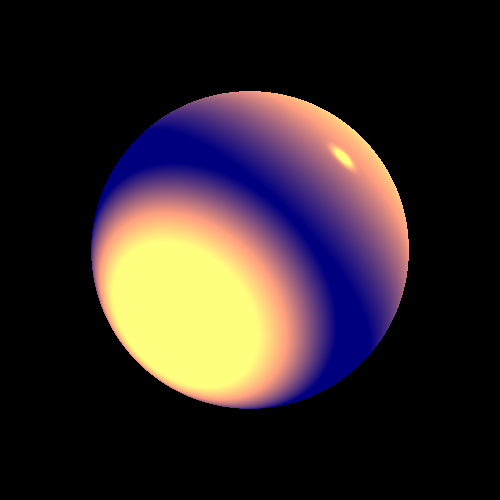
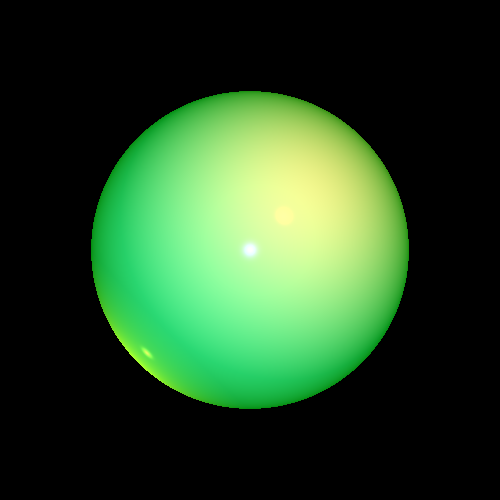
stage7 ShadowTests

diff --git a/unitTasts/renderer/ShadowTests.java b/unitTasts/renderer/ShadowTests.java
@@ -1,0 +1,112 @@
+package renderer;
+
+import static java.awt.Color.*;
+
+import org.junit.jupiter.api.Test;
+
+import geometries.*;
+import lighting.AmbientLight;
+import lighting.SpotLight;
+import primitives.*;
+import scene.Scene;
+
+/** Testing basic shadows
+ * @author Dan */
+public class ShadowTests {
+   /** Scene of the tests */
+   private final Scene scene = new Scene("Test scene");
+   /** Camera builder of the tests */
+   private final Camera.Builder camera     = Camera.getBuilder()
+      .setDirection(new Vector(0, 0, -1), new Vector(0, 1, 0))
+      .setLocation(new Point(0, 0, 1000)).setVpDistance(1000)
+      .setVpSize(200, 200)
+      .setRayTracer(new SimpleRayTracer(scene));
+
+   /** The sphere in the tests */
+   private final Intersectable  sphere     = new Sphere(new Point(0, 0, -200), 60d)
+      .setEmission(new Color(BLUE))
+      .setMaterial(new Material().setKd(0.5).setKs(0.5).setShininess(30));
+   /** The material of the triangles in the tests */
+   private final Material       trMaterial = new Material().setKd(0.5).setKs(0.5).setShininess(30);
+
+   /** Helper function for the tests in this module
+    * @param pictName     the name of the picture generated by a test
+    * @param triangle     the triangle in the test
+    * @param spotLocation the spotlight location in the test */
+   private void sphereTriangleHelper(String pictName, Triangle triangle, Point spotLocation) {
+      scene.geometries.add(sphere, triangle.setEmission(new Color(BLUE)).setMaterial(trMaterial));
+      scene.lights.add( //
+                       new SpotLight(new Color(400, 240, 0), spotLocation, new Vector(1, 1, -3)) //
+                          .setKl(1E-5).setKq(1.5E-7));
+      camera.setImageWriter(new ImageWriter(pictName, 400, 400))
+         .build()
+         .renderImage() //
+         .writeToImage();
+   }
+
+   /** Produce a picture of a sphere and triangle with point light and shade */
+   @Test
+   public void sphereTriangleInitial() {
+      sphereTriangleHelper("shadowSphereTriangleInitial", //
+                           new Triangle(new Point(-70, -40, 0), new Point(-40, -70, 0), new Point(-68, -68, -4)), //
+                           new Point(-100, -100, 200));
+   }
+
+   /** Sphere-Triangle shading - move triangle up-right */
+   @Test
+   public void sphereTriangleMove1() {
+      sphereTriangleHelper("shadowSphereTriangleMove1", //
+                           new Triangle(new Point(-60, -30, 0), new Point(-30, -60, 0), new Point(-58, -58, -4)), //
+                           new Point(-100, -100, 200));
+   }
+
+   /** Sphere-Triangle shading - move triangle upper-righter */
+   @Test
+   public void sphereTriangleMove2() {
+      sphereTriangleHelper("shadowSphereTriangleMove2", //
+                           new Triangle(new Point(-50, -20, 0), new Point(-20, -50, 0), new Point(-48, -48, -4)), //
+                           new Point(-100, -100, 200));
+   }
+
+   /** Sphere-Triangle shading - move spot closer */
+   @Test
+   public void sphereTriangleSpot1() {
+      sphereTriangleHelper("shadowSphereTriangleSpot1", //
+                           new Triangle(new Point(-70, -40, 0), new Point(-40, -70, 0), new Point(-68, -68, -4)), //
+                           new Point(-90, -90, 120));
+   }
+
+   /** Sphere-Triangle shading - move spot even more close */
+   @Test
+   public void sphereTriangleSpot2() {
+      sphereTriangleHelper("shadowSphereTriangleSpot2", //
+                           new Triangle(new Point(-70, -40, 0), new Point(-40, -70, 0), new Point(-68, -68, -4)), //
+                           new Point(-80, -80, 90));
+   }
+
+   /** Produce a picture of a two triangles lighted by a spot light with a Sphere
+    * producing a shading */
+   @Test
+   public void trianglesSphere() {
+      scene.geometries.add(
+                           new Triangle(new Point(-150, -150, -115), new Point(150, -150, -135),
+                                        new Point(75, 75, -150)) //
+                              .setMaterial(new Material().setKs(0.8).setShininess(60)), //
+                           new Triangle(new Point(-150, -150, -115), new Point(-70, 70, -140), new Point(75, 75, -150)) //
+                              .setMaterial(new Material().setKs(0.8).setShininess(60)), //
+                           new Sphere(new Point(0, 0, -11), 30d) //
+                              .setEmission(new Color(BLUE)) //
+                              .setMaterial(new Material().setKd(0.5).setKs(0.5).setShininess(30)) //
+      );
+      scene.setAmbientLight(new AmbientLight(new Color(WHITE), 0.15));
+      scene.lights.add(
+                       new SpotLight(new Color(700, 400, 400), new Point(40, 40, 115), new Vector(-1, -1, -4)) //
+                          .setKl(4E-4).setKq(2E-5));
+
+      camera.setImageWriter(new ImageWriter("shadowTrianglesSphere", 600, 600))
+         .build()
+         .renderImage()
+         .writeToImage();
+   }
+
+}

diff --git a/src/renderer/SimpleRayTracer.java b/src/renderer/SimpleRayTracer.java
@@ -8,12 +8,16 @@ import scene.Scene;
 
 import java.util.List;
 
+import static primitives.Util.alignZero;
+
 /**
  * SimpleRayTracer is a basic implementation of the RayTracerBase class.
  * It performs ray tracing by finding intersections of rays with geometries
  * in the scene and calculates the color of the closest intersection point.
  */
 public class SimpleRayTracer extends RayTracerBase {
+
+    private static final double DELTA = 0.1;
 
     /**
      * Constructs a SimpleRayTracer with the specified scene.
@@ -48,34 +52,44 @@ public class SimpleRayTracer extends RayTracerBase {
      * @return the color at the GeoPoint
      */
     private Color calcColor(GeoPoint geoPoint, Ray ray) {
-        Color color = geoPoint.geometry.getEmission()
-                .add(scene.ambientLight.getIntensity());
-        color = color.add(calcLocalEffects(geoPoint, ray));
-        return color;
+        Color ambientLight = scene.ambientLight.getIntensity();
+        Color emissionLight = geoPoint.geometry.getEmission();
+        Color pointColor = ambientLight.add(emissionLight);
+        return pointColor.add(calcLocalEffects(geoPoint, ray));
     }
 
     /**
      * Calculates the local effects of lighting on a given GeoPoint.
      *
-     * @param geoPoint the GeoPoint
+     * @param gp the GeoPoint
      * @param ray the ray
      * @return the color resulting from local lighting effects
      */
-    private Color calcLocalEffects(GeoPoint geoPoint, Ray ray) {
-        Vector v = ray.getDir().normalize();
-        Vector n = geoPoint.geometry.getNormal(geoPoint.point).normalize();
-        Material material = geoPoint.geometry.getMaterial();
+    private Color calcLocalEffects(GeoPoint gp, Ray ray) {
+        Vector v = ray.getDir();
+        Vector n = gp.geometry.getNormal(gp.point);
+        double nv = alignZero(n.dotProduct(v));
+        if (nv == 0) return Color.BLACK;
+
+        Material material = gp.geometry.getMaterial();
+        int nShininess = material.nShininess;
+        Double3 kd = material.kD;
+        Double3 ks = material.kS;
         Color color = Color.BLACK;
 
-        for (LightSource lightSource : scene.getLights()) {
-            Vector l = lightSource.getL(geoPoint.point).normalize();
-            if (n.dotProduct(l) * n.dotProduct(v) > 0) { // sign of dotProduct is positive when both are above or below surface
-                Color lightIntensity = lightSource.getIntensity(geoPoint.point);
-                color = color.add(calcDiffusive(material.kD, l, n, lightIntensity),
-                        calcSpecular(material.kS, l, n, v, material.nShininess, lightIntensity));
+        for (LightSource lightSource : scene.lights) {
+            Vector l = lightSource.getL(gp.point);
+            double nl = alignZero(n.dotProduct(l));
+            if (nl * nv > 0) { // sign(nl) == sign(nv)
+                if (unshaded(gp, l, n, lightSource)) {
+                    Color lightIntensity = lightSource.getIntensity(gp.point);
+                    color = color.add(
+                            calcDiffusive(kd, l, n, lightIntensity),
+                            calcSpecular(ks, l, n, v, nShininess, lightIntensity)
+                    );
+                }
             }
         }
-
         return color;
     }
 
@@ -108,6 +122,26 @@ public class SimpleRayTracer extends RayTracerBase {
         Vector r = l.subtract(n.scale(2 * l.dotProduct(n))); // reflection direction
         double vr = Math.max(0, -v.dotProduct(r));
         return lightIntensity.scale(kS).scale(Math.pow(vr, shininess));
+    }
+
+    private boolean unshaded(GeoPoint gp, Vector l, Vector n, LightSource light) {
+        Vector lightDirection = l.scale(-1); // from point to light source
+        Vector epsVector = n.scale(n.dotProduct(lightDirection) > 0 ? DELTA : -DELTA);
+        Point point = gp.point.add(epsVector);
+        Ray lightRay = new Ray(point, lightDirection);
+        List<GeoPoint> intersections = scene.geometries.findGeoIntersections(lightRay);
+
+        if (intersections == null) {
+            return true;
+        }
+
+        double lightDistance = light.getDistance(gp.point);
+        for (GeoPoint geoPoint : intersections) {
+            if (alignZero(geoPoint.point.distance(gp.point) - lightDistance) <= 0) {
+                return false;
+            }
+        }
+        return true;
     }
 
 }

diff --git a/unitTasts/lighting/LightsTests.java b/unitTasts/lighting/LightsTests.java
@@ -196,11 +196,14 @@ public class LightsTests {
 
    @Test
    public void multipleLightSourcesSphere() {
-      scene1.geometries.add(sphere);
-      scene1.lights.add(new PointLight(sphereLightColor, sphereLightPosition).setKl(0.0001).setKq(0.00002));
-      scene1.lights.add(new SpotLight(sphereLightColor, sphereLightPosition, sphereLightDirection)
-              .setKl(0.0001).setKq(0.00001));
-      scene1.lights.add(new DirectionalLight(sphereLightColor, sphereLightDirection.scale(-1)));
+      scene1.geometries.add(new Sphere(sphereCenter, SPHERE_RADIUS)
+              .setEmission(new Color(GREEN).reduce(2)).setMaterial(new Material().setKd(KD).setKs(KS).setShininess(SHININESS)));
+
+      scene1.lights.add(new SpotLight(new Color(720, 55, 20), new Point(60, 60, 100), new Vector(-1,-1,-2))
+              .setKl(0.001).setKq(0.00005));
+      scene1.lights.add(new PointLight(new Color(452, 325, 70), new Point(-50, -50, -50))
+              .setKl(0.0005).setKq(0.0005));
+      scene1.lights.add(new DirectionalLight(new Color(121, 250, 324), new Vector(0, 0, -1)));
 
       camera1.setImageWriter(new ImageWriter("multipleLightSourcesSphere", 500, 500))
               .build()

diff --git a/src/lighting/AmbientLight.java b/src/lighting/AmbientLight.java
@@ -21,4 +21,17 @@ public class AmbientLight extends Light {
     public AmbientLight(Color Ia, Double3 Ka) {
         super(Ia.scale(Ka));
     }
+
+    /**
+     * Constructs an ambient light source with the specified intensity and ambient
+     * reflection coefficient.
+     *
+     * @param intensity The color intensity of the ambient light.
+     * @param kA        The ambient reflection coefficient (ambient reflectivity)
+     *                  represented as a scalar value. This coefficient scales the
+     *                  intensity of the ambient light.
+     */
+    public AmbientLight(Color intensity, double kA) {
+        super(intensity.scale(kA));
+    }
 }

diff --git a/src/lighting/LightSource.java b/src/lighting/LightSource.java
@@ -13,12 +13,14 @@ public interface LightSource {
      * @param p the point at which the intensity is to be calculated
      * @return the intensity of the light at the specified point
      */
-    public Color getIntensity(Point p);
+    Color getIntensity(Point p);
     /**
      * Returns the direction vector from a specified point towards the light source.
      *
      * @param p the point from which the direction vector is calculated
      * @return the direction vector towards the light source from the specified point
      */
-    public Vector getL(Point p);
+    Vector getL(Point p);
+
+    double getDistance(Point point);
 }

diff --git a/src/geometries/Geometries.java b/src/geometries/Geometries.java
@@ -1,7 +1,6 @@
 package geometries;
 
-import primitives.Point;
-import primitives.Ray;
+import primitives.*;
 
 import java.util.ArrayList;
 import java.util.LinkedList;
@@ -12,7 +11,7 @@ import java.util.List;
  * It is used to group multiple geometries together and perform operations on them as a whole.
  */
 public class Geometries extends Intersectable {
-    private final List<Intersectable> geometries = new LinkedList<Intersectable>();
+    private final List<Intersectable> geometries = new LinkedList<>();
 
     /**
      * Default constructor for Geometries.

diff --git a/src/geometries/Cylinder.java b/src/geometries/Cylinder.java
@@ -5,7 +5,7 @@ import primitives.Ray;
 import primitives.Util;
 import primitives.Vector;
 
-import java.util.List;
+//import java.util.List;
 
 /**
  * The Cylinder class represents a cylinder in 3D space.
@@ -16,7 +16,7 @@ public class Cylinder extends Tube {
     /**
      * The height of the cylinder.
      */
-    private double height;
+    private final double height;
 
     /**
      * Constructs a Cylinder with a specified radius, axis ray, and height.

diff --git a/src/lighting/PointLight.java b/src/lighting/PointLight.java
@@ -82,4 +82,9 @@ public class PointLight extends Light implements LightSource{
     public Vector getL(Point p){
         return p.subtract(position).normalize();
     }
+
+    @Override
+    public double getDistance(Point point){
+        return position.distance(point);
+    }
 }

diff --git a/src/lighting/DirectionalLight.java b/src/lighting/DirectionalLight.java
@@ -44,4 +44,9 @@ public class DirectionalLight extends Light implements LightSource{
     public Vector getL(Point p){
         return direction;
     }
+
+    @Override
+    public double getDistance(Point point){
+        return Double.POSITIVE_INFINITY;
+    }
 }
